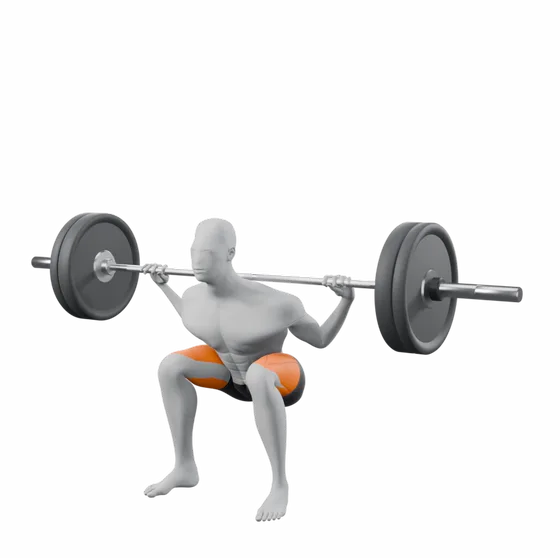
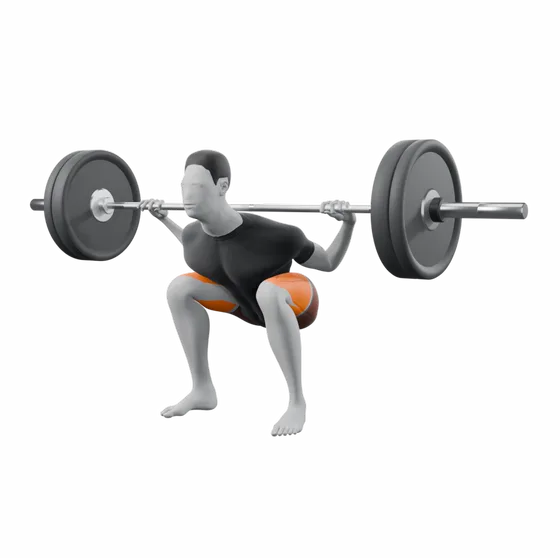
feat(aiyourgym): 10 eigen oefenrenders met haar en shirt op de website, blikvanger met back squat, deadlift, push-up en barbell row

Changed region(s): [[0.0607, 0.2429, 0.9411, 0.9411]]

diff --git a/src/components/aiyourgym/inhoud/oefenrenders.data.ts b/src/components/aiyourgym/inhoud/oefenrenders.data.ts
@@ -15,12 +15,70 @@ export const OEFENRENDER_DATA = [
     ],
     "breedte": 560,
     "hoogte": 560,
-    "versie": "2a7c572e",
+    "versie": "fdbd91fb",
     "bytes": {
-      "lus": 496328,
-      "lus-klein": 287248,
-      "begin": 23642,
-      "piek": 19724
+      "lus": 481836,
+      "lus-klein": 279128,
+      "begin": 25014,
+      "piek": 19190
+    }
+  },
+  {
+    "slug": "barbell-curl",
+    "naam": "Barbell curl",
+    "spieren": [
+      "bovenarm"
+    ],
+    "spierenSecundair": [],
+    "breedte": 560,
+    "hoogte": 560,
+    "versie": "2b227b52",
+    "bytes": {
+      "lus": 338120,
+      "lus-klein": 199232,
+      "begin": 22586,
+      "piek": 21782
+    }
+  },
+  {
+    "slug": "barbell-row",
+    "naam": "Barbell row",
+    "spieren": [
+      "rug",
+      "bovenarm"
+    ],
+    "spierenSecundair": [],
+    "breedte": 560,
+    "hoogte": 560,
+    "versie": "a6d08dc1",
+    "bytes": {
+      "lus": 387438,
+      "lus-klein": 227768,
+      "begin": 26130,
+      "piek": 24972
+    }
+  },
+  {
+    "slug": "deadlift",
+    "naam": "Deadlift",
+    "spieren": [
+      "bil",
+      "hamstring",
+      "onderrug"
+    ],
+    "spierenSecundair": [
+      "dij",
+      "rug",
+      "onderarm"
+    ],
+    "breedte": 560,
+    "hoogte": 560,
+    "versie": "4bd7ba79",
+    "bytes": {
+      "lus": 359004,
+      "lus-klein": 213972,
+      "begin": 24942,
+      "piek": 21222
     }
   },
   {
@@ -35,12 +93,107 @@ export const OEFENRENDER_DATA = [
     ],
     "breedte": 560,
     "hoogte": 560,
-    "versie": "788f61f7",
+    "versie": "261f45f9",
     "bytes": {
-      "lus": 401188,
-      "lus-klein": 237084,
-      "begin": 19404,
-      "piek": 16682
+      "lus": 633996,
+      "lus-klein": 373194,
+      "begin": 21516,
+      "piek": 23858
+    }
+  },
+  {
+    "slug": "glute-bridge",
+    "naam": "Glute bridge",
+    "spieren": [
+      "bil",
+      "hamstring"
+    ],
+    "spierenSecundair": [],
+    "breedte": 560,
+    "hoogte": 560,
+    "versie": "96c4a0d9",
+    "bytes": {
+      "lus": 569728,
+      "lus-klein": 334230,
+      "begin": 18004,
+      "piek": 19914
+    }
+  },
+  {
+    "slug": "lunge-met-barbell",
+    "naam": "Lunge met barbell",
+    "spieren": [
+      "dij",
+      "bil"
+    ],
+    "spierenSecundair": [
+      "hamstring",
+      "romp"
+    ],
+    "breedte": 560,
+    "hoogte": 560,
+    "versie": "e89ef1fe",
+    "bytes": {
+      "lus": 568156,
+      "lus-klein": 336816,
+      "begin": 20236,
+      "piek": 22512
+    }
+  },
+  {
+    "slug": "overhead-press",
+    "naam": "Overhead press",
+    "spieren": [
+      "schouder",
+      "bovenarm"
+    ],
+    "spierenSecundair": [],
+    "breedte": 560,
+    "hoogte": 560,
+    "versie": "14e6a5f6",
+    "bytes": {
+      "lus": 381288,
+      "lus-klein": 221184,
+      "begin": 22384,
+      "piek": 19580
+    }
+  },
+  {
+    "slug": "plank",
+    "naam": "Plank",
+    "spieren": [
+      "romp"
+    ],
+    "spierenSecundair": [],
+    "breedte": 560,
+    "hoogte": 560,
+    "versie": "a176ab41",
+    "bytes": {
+      "lus": 310992,
+      "lus-klein": 180714,
+      "begin": 12810,
+      "piek": 12688
+    }
+  },
+  {
+    "slug": "push-up",
+    "naam": "Push-up",
+    "spieren": [
+      "borst",
+      "bovenarm"
+    ],
+    "spierenSecundair": [
+      "schouder",
+      "romp"
+    ],
+    "breedte": 560,
+    "hoogte": 560,
+    "versie": "89039bcf",
+    "bytes": {
+      "lus": 376536,
+      "lus-klein": 216198,
+      "begin": 16562,
+      "piek": 12254
     }
   }
 ] as const

diff --git a/src/components/aiyourgym/inhoud/voorbeeldschema.ts b/src/components/aiyourgym/inhoud/voorbeeldschema.ts
@@ -22,9 +22,9 @@ export interface VoorbeeldOefening {
 
 const KEUZE: readonly { naam: string; kort: string; patroon: Patroon }[] = [
   { naam: 'Back squat', kort: 'Back squat', patroon: 'squat' },
-  { naam: 'Roemeense deadlift met dumbbells', kort: 'Roemeense deadlift', patroon: 'heupscharnier' },
-  { naam: 'Dumbbell bankdrukken', kort: 'Bankdrukken', patroon: 'duwen_horizontaal' },
-  { naam: 'Lat pulldown', kort: 'Lat pulldown', patroon: 'trekken_verticaal' },
+  { naam: 'Deadlift', kort: 'Deadlift', patroon: 'heupscharnier' },
+  { naam: 'Push-up', kort: 'Push-up', patroon: 'duwen_horizontaal' },
+  { naam: 'Barbell row', kort: 'Barbell row', patroon: 'trekken_horizontaal' },
 ]
 
 /** "8-12" wordt "8 tot 12" (schrijfregel: bereiken met "tot"). */
